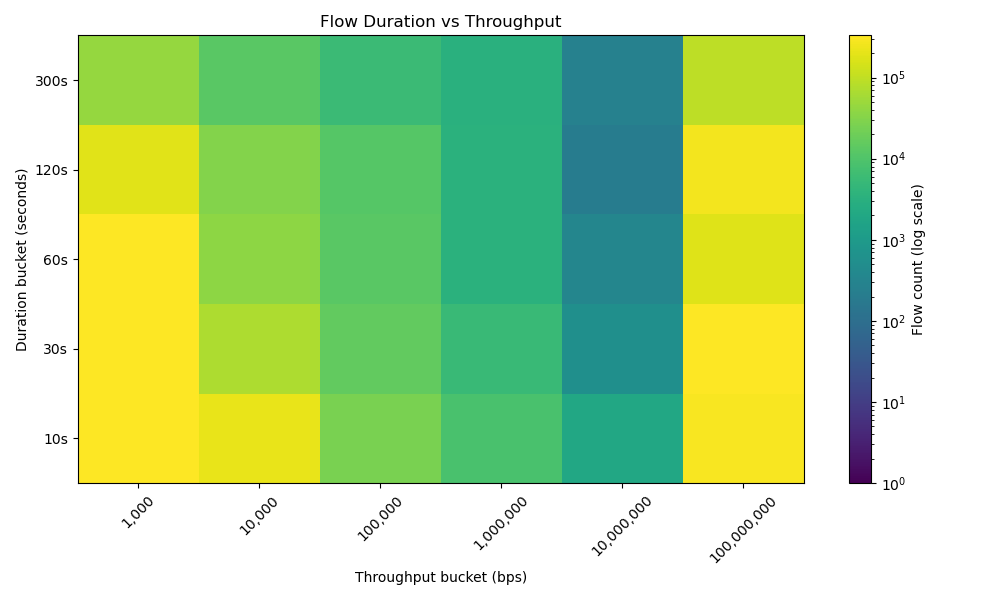
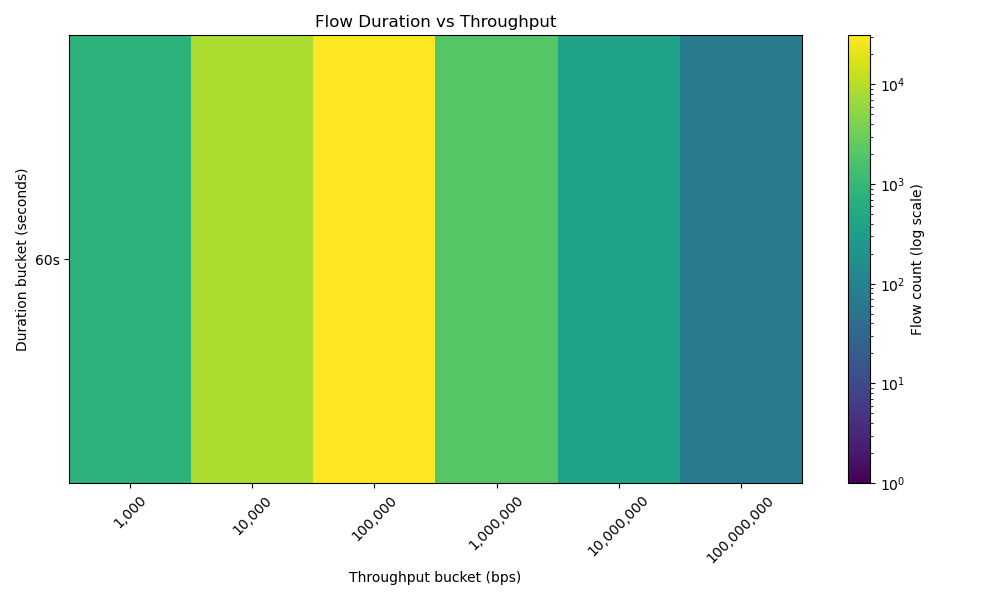
Added plotting logic and SNI bucketing

diff --git a/examples/plot_hist.py b/examples/plot_hist.py
@@ -49,6 +49,16 @@ def load_2d_hist(csv_path):
             ))
     return rows
 
+# --------------------------
+# Load SNI histogram CSV (domain,count)
+# --------------------------
+def load_sni(csv_path):
+    data = {}
+    with open(csv_path, newline="") as f:
+        reader = csv.DictReader(f)
+        for row in reader:
+            data[row["domain"]] = int(row["count"])
+    return data
 
 # --------------------------
 # Bucket helper
@@ -102,8 +112,16 @@ def plot_bars(bucket_counts, title, xlabel, filename):
 # Plot 2D heatmap
 # --------------------------
 def plot_2d_heatmap(rows, title, filename):
+    if not rows:
+        print(f"[WARN] No data for heatmap: {filename}")
+        return
+
     dur_buckets = sorted(set(r[0] for r in rows))
     thr_buckets = sorted(set(r[1] for r in rows))
+
+    if len(dur_buckets) == 0 or len(thr_buckets) == 0:
+        print(f"[WARN] Empty bucket axes for heatmap: {filename}")
+        return
 
     dur_index = {v: i for i, v in enumerate(dur_buckets)}
     thr_index = {v: i for i, v in enumerate(thr_buckets)}
@@ -113,21 +131,41 @@ def plot_2d_heatmap(rows, title, filename):
     for d, t, c in rows:
         heatmap[dur_index[d], thr_index[t]] += c
 
-    plt.figure(figsize=(10, 6))
-    im = plt.imshow(
-        heatmap,
-        origin="lower",
-        aspect="auto",
-        norm=colors.LogNorm(vmin=1),
-    )
+    # If everything is zero, skip log scale
+    max_val = heatmap.max()
 
-    plt.colorbar(im, label="Flow count (log scale)")
+    plt.figure(figsize=(10, 6))
+
+    if max_val <= 0:
+        print(f"[WARN] Heatmap has only zero values: {filename}")
+        im = plt.imshow(
+            heatmap,
+            origin="lower",
+            aspect="auto",
+        )
+    else:
+        im = plt.imshow(
+            heatmap,
+            origin="lower",
+            aspect="auto",
+            norm=colors.LogNorm(vmin=1, vmax=max_val),
+        )
+
+    plt.colorbar(im, label="Flow count (log scale)" if max_val > 0 else "Flow count")
+
     plt.xlabel("Throughput bucket (bps)")
     plt.ylabel("Duration bucket (seconds)")
     plt.title(title)
 
-    plt.xticks(range(len(thr_buckets)), [f"{t:,}" for t in thr_buckets], rotation=45)
-    plt.yticks(range(len(dur_buckets)), [f"{d}s" for d in dur_buckets])
+    if len(thr_buckets) > 1:
+        plt.xticks(range(len(thr_buckets)), [f"{t:,}" for t in thr_buckets], rotation=45)
+    else:
+        plt.xticks([0], [f"{thr_buckets[0]:,}"])
+
+    if len(dur_buckets) > 1:
+        plt.yticks(range(len(dur_buckets)), [f"{d}s" for d in dur_buckets])
+    else:
+        plt.yticks([0], [f"{dur_buckets[0]}s"])
 
     plt.tight_layout()
     plt.savefig(filename)
@@ -139,7 +177,7 @@ def plot_2d_heatmap(rows, title, filename):
 # --------------------------
 if __name__ == "__main__":
 
-    base = Path("hists_0213")
+    base = Path("hists")
     out = Path("plots")
     out.mkdir(exist_ok=True)
 
@@ -288,6 +326,82 @@ if __name__ == "__main__":
         out / "ratio_udp.png"
     )
 
+    # ---------- Protocol ----------
+    protocol = load_hist(base / "protocol.csv")
+
+    proto_counts = {}
+    for value, count in protocol:
+        label = PROTO_MAP.get(value, f"Proto {value}")
+        proto_counts[label] = proto_counts.get(label, 0) + count
+
+    plot_bars(proto_counts,
+            "Transport Protocol Distribution",
+            "Protocol",
+            out / "protocol.png")
+
+    # ---------- Destination Port Distribution ----------
+    dst_ports = load_hist(base / "dst_port.csv")
+
+    plot_bars(
+        bucketize(dst_ports, [
+            (0, 1024, "Well-Known (<1024)"),
+            (1024, 49152, "Registered (1024–49151)"),
+            (49152, None, "Ephemeral (49152+)"),
+        ]),
+        "Destination Port Classes",
+        "Port Range",
+        out / "dst_port_classes.png"
+    )
+
+
+    # ---------- Pure Direction Protocol ----------
+    pure_proto = load_hist(base / "pure_direction_proto.csv")
+
+    pure_map = {
+        0: "TCP Forward Only",
+        1: "TCP Reverse Only",
+        2: "UDP Forward Only",
+        3: "UDP Reverse Only",
+    }
+
+    counts = {}
+    for value, count in pure_proto:
+        label = pure_map.get(value, "Other")
+        counts[label] = counts.get(label, 0) + count
+
+    plot_bars(counts,
+            "Purely Unidirectional Flows by Protocol",
+            "Type",
+            out / "pure_direction_proto.png")
+
+    # ---------- Pure Direction Duration ----------
+    pure_dur = load_hist(base / "pure_direction_duration.csv")
+
+    plot_bars(
+        bucketize(pure_dur, [
+            (0, 10, "<10s"),
+            (10, 60, "10–60s"),
+            (60, 300, "1–5 min"),
+            (300, None, "5min+"),
+        ]),
+        "Duration of Purely Unidirectional Flows",
+        "Duration",
+        out / "pure_direction_duration.png"
+    )
+
+    # ---------- Pure Direction Destination Port ----------
+    pure_ports = load_hist(base / "pure_direction_dst_port.csv")
+
+    plot_bars(
+        bucketize(pure_ports, [
+            (0, 1024, "Well-Known"),
+            (1024, 49152, "Registered"),
+            (49152, None, "Ephemeral"),
+        ]),
+        "Pure Direction Flows by Port Class",
+        "Port Range",
+        out / "pure_direction_ports.png"
+    )
 
     # ---------- Large Flow Port Class ----------
     large_port = load_hist(base / "large_proto_port_class.csv")
@@ -330,5 +444,38 @@ if __name__ == "__main__":
         "Flow Duration vs Throughput",
         out / "duration_vs_throughput_heatmap.png",
     )
+
+    # ---------- HTTP Heatmap ----------
+    plot_2d_heatmap(
+        load_2d_hist(base / "duration_vs_throughput_http.csv"),
+        "HTTP Duration vs Throughput",
+        out / "heatmap_http.png",
+    )
+
+    # ---------- TLS Heatmap ----------
+    plot_2d_heatmap(
+        load_2d_hist(base / "duration_vs_throughput_tls.csv"),
+        "TLS Duration vs Throughput",
+        out / "heatmap_tls.png",
+    )
+
+    # ---------- QUIC Heatmap ----------
+    plot_2d_heatmap(
+        load_2d_hist(base / "duration_vs_throughput_quic.csv"),
+        "QUIC Duration vs Throughput",
+        out / "heatmap_quic.png",
+    )
+
+    # ---------- TLS SNI Buckets ----------
+    sni_data = load_sni(base / "sni_buckets.csv")
+
+    # Take top 15 domains
+    top_sni = dict(sorted(sni_data.items(), key=lambda x: x[1], reverse=True)[:15])
+
+    plot_bars(top_sni,
+            "Top 15 TLS Root Domains (SNI)",
+            "Domain",
+            out / "top_sni_domains.png")
+
 
     print("All plots written to ./plots/")

diff --git a/examples/flow_features/src/main.rs b/examples/flow_features/src/main.rs
@@ -8,9 +8,14 @@ use once_cell::sync::Lazy;
 use std::{fs::File, sync::Mutex};
 use std::io::{BufWriter, Write};
 use std::collections::HashMap;
-use iris_core::protocols::stream::SessionProto;
+use iris_core::protocols::stream::{SessionProto, Session, SessionData};
+use publicsuffix::List;
+use publicsuffix::Psl;
 
-// Still need to implement SNI testing and burstiness analysis
+static PSL: Lazy<List> = Lazy::new(List::new);
+
+static H_SNI_BUCKETS: Lazy<Mutex<HashMap<String, u64>>> =
+    Lazy::new(|| Mutex::new(HashMap::new()));
 
 // GLOBAL CONSTANTS
 const LARGE_FLOW_MIN_DURATION_SECS: u64 = 20;
@@ -94,6 +99,26 @@ fn throughput_bucket_bps(bps: u64) -> u64 {
     }
 }
 
+// SNI NORMALIZATION HELPER
+fn normalize_sni(host: &str) -> Option<String> {
+    // Lowercase and trim trailing dot
+    let host = host.to_lowercase();
+    let host = host.trim_end_matches('.');
+
+    // Convert to bytes for the publicsuffix API
+    let host_bytes = host.as_bytes();
+
+    // PSL.domain returns an Option<Domain<'_>>
+    if let Some(domain) = PSL.domain(host_bytes) {
+        // Convert `domain` (which displays as the registrable domain) to String
+        return Some(
+            String::from_utf8(domain.as_bytes().to_vec()).unwrap_or_default()
+        );
+    }
+
+    None
+}
+
 // CONNECTION STATE
 #[derive(Debug, Clone)]
 #[datatype("level=L4Terminated,parsers=http&tls&quic")]
@@ -109,6 +134,7 @@ pub struct ConnVolume {
     dst_port: u16,
 
     l7_proto: Option<SessionProto>,
+    tls_sni: Option<String>,
 }
 
 impl ConnVolume {
@@ -130,6 +156,7 @@ impl ConnVolume {
             dst_port: pdu.ctxt.dst.port(),
 
             l7_proto: None,
+            tls_sni: None,
         }
     }
 
@@ -153,6 +180,17 @@ impl ConnVolume {
             self.l7_proto = Some(proto.clone());
         }
     }
+
+    #[datatype_group("ConnVolume,level=L7OnDisc")]
+    pub fn tls(&mut self, session: &Session) {
+        if let SessionData::Tls(tls) = &session.data {
+            let sni = tls.sni();
+            if !sni.is_empty() {
+                self.tls_sni = Some(sni.to_string());
+            }
+        }
+        // do not store the full handshake in ConnVolume
+    }
 }
 
 // UPDATING COUNTERS
@@ -168,6 +206,14 @@ pub fn record_data(conn: &ConnVolume) {
 
     H_BYTES.lock().unwrap().record(bytes).unwrap();
     H_PACKETS.lock().unwrap().record(packets).unwrap();
+
+    // Grab SNI and bucket it by root domain
+    if let Some(ref sni) = conn.tls_sni {
+        if let Some(bucket) = normalize_sni(sni) {
+            let mut map = H_SNI_BUCKETS.lock().unwrap();
+            *map.entry(bucket).or_insert(0) += 1;
+        }
+    }
 
     // Direction dominance (encoded TCP/UDP in same histogram)
     // TCP: 0 = rev-heavy, 1 = fwd-heavy 
@@ -230,7 +276,7 @@ pub fn record_data(conn: &ConnVolume) {
                 .record(duration_secs)
                 .unwrap();
         }
-        
+
         // TCP: 0–100
         // UDP: 101–201
         let encoded_ratio = match conn.proto {
@@ -437,6 +483,19 @@ fn main() {
         &H_DUR_THR_QUIC.lock().unwrap(),
     ).unwrap();
 
+    fn dump_sni_buckets(path: PathBuf) -> std::io::Result<()> {
+        let map = H_SNI_BUCKETS.lock().unwrap();
+        let mut w = std::io::BufWriter::new(std::fs::File::create(path)?);
 
+        writeln!(w, "domain,count")?;
+
+        for (domain, count) in map.iter() {
+            writeln!(w, "{},{}", domain, count)?;
+        }
+
+        Ok(())
+    }
+
+    dump_sni_buckets(out_dir.join("sni_buckets.csv")).unwrap();
     println!("Histograms written to {}", out_dir.display());
 }
